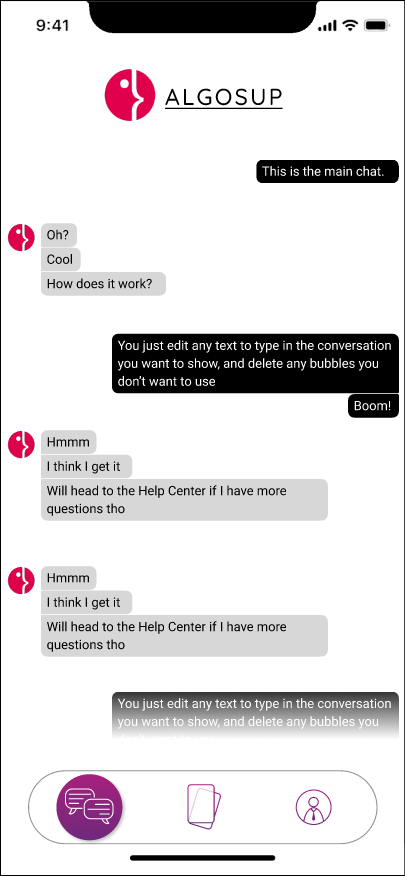
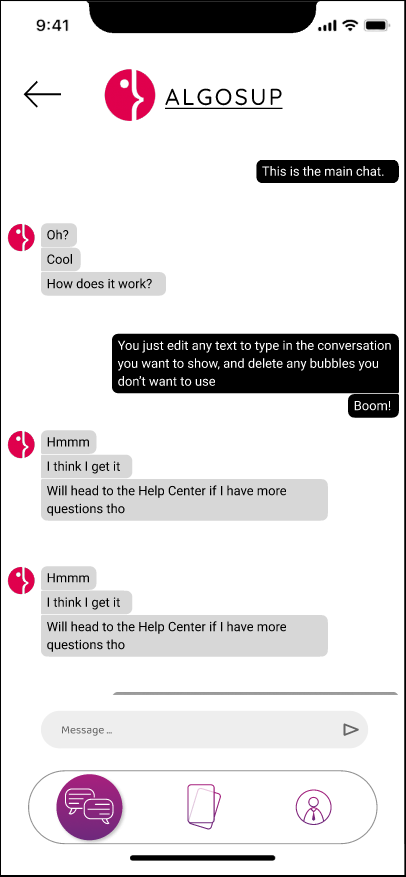
some screens are needed and the others sections have to be filed

diff --git a/documents/functional/functional_specifications.md b/documents/functional/functional_specifications.md
@@ -20,6 +20,8 @@
     - [2. Features](#2-features)
         - [Soft-skills](#soft-skills)
         - [Anonymized candidates](#anonymized-candidates)
+        - [Matching system](#matching-system)
+        - [Saving system](#saving-system)
     - [3. Graphic charter](#3-graphic-charter)
         - [Logo](#logo)
         - [Font](#font)
@@ -164,7 +166,7 @@ Description: The company needs to find candidate on who they can trust and that 
 
 ## 2. Features
 
-We were asked to focus on two main features: the soft-skills prioritization and anonymizing candidates. 
+We were asked to focus on two main features: the soft-skills prioritization and anonymizing candidates. Also two other features will be implemented, which one was requested and the other is decided by us to add more possibilities for the app: a matching system and a saving system.
 
 
 ### Soft-skills
@@ -215,6 +217,14 @@ They are not evenly distributed and some of them are in multiple categories but 
 ### Anonymized candidates
 
 As we were tasked to focus on soft-skills, it requires anonymizing the candidates that was also what we were requested to do. By anonymizing the candidates, only their soft-skills will be shown to the other users, to eliminate discrimination, bias selection by competences, to focus more on the human aspect of the recruitment. If the company needs to know more about a candidate, they will be able to chat via a chat system implemented in the app.
+
+### Matching system
+
+The goal of the matching system is to detect when a candidate and a company validated each other's profile. When a matching occurs, they will be able to talk to each other via a private chat implemented in the app.
+
+### Saving system
+
+The saving system that we will implement will be used to save profiles that can be useful later but on which we don't want them to be prioritized. As such, when a profile is saved, it does not mean that it is validated and so the matching system will not work. Saved profiles will be accessible and then the user will be able to finally decides if he reject or validate the profile.
 
 ## 3. Graphic charter
 
@@ -410,71 +420,170 @@ Then, after the verification validated, the user will be able to put every infor
 
 <img src="../images/functional/ui/logo_company.png" width="24%">
 
-
+The user will then be able to create a description for the company:
 
 <img src="../images/functional/ui/description_company.png" width="24%">
 
+As well as what type a job he offers:
+
 <img src="../images/functional/ui/information_company.png" width="24%">
+
+Then he will choose which soft-skills are required to be selected :
 
 <img src="../images/functional/ui/softskills_company1.png" width="24%">
 <img src="../images/functional/ui/softskills_company2.png" width="24%">
 <img src="../images/functional/ui/softskills_company3.png" width="24%">
 <img src="../images/functional/ui/softskills_company4.png" width="24%">
 
+After finishing everything, the user will directly arrive on the main page of the app described in the [Searching candidates](#searching-candidates) section later in the document.
+
 ### Job seeker interface
 ---
 
 #### Searching companies
 
+As a main feature of the app, the candidate will be able to look for a company that perfectly suits his needs.
+
+To do so, the candidate will have "cards" on which the company will be described on:
+
 <img src="../images/functional/ui/searching_candidate1.png" width="24%">
+
+If you click on it, the card will flip to show the complete description that the company had provided:
+
 <img src="../images/functional/ui/searching_candidate2.png" width="24%">
+
+To validate the company, the user will have to click on the green button with a check mark, or slide the card to the right. In the case where the user don't validate the company, he will have to click on the red button with a cross, or slide the card to the left.
+
+Also if the user reject or validate the company by mistake, the return button at the left of the red button will let the user to bring back the last card and do again the choice.
+
+If the user don't really know if he will reject or validate the company, the save button at the right of the green button will let the user to save the company so he will be able to do the choice later, without interfering with the match system (saved profiles will not create a match).
+
+When the user changes page, this page will be accessible by clicking on the middle button on the navigation bar at the bottom of the screen.
 
 #### Discussion with companies
 
+When a match occurs, the job seeker will be able to chat with the company. He will be free to ask or tell what they want, as long as they respect the rules of communication.
+
+To chat with a company, he will have to select to which company he wants to chat with from a list of every matches:
+
 <img src="../images/functional/ui/chat_candidate.png" width="24%">
+
+The last message will be directly visible as well as when it was send.
+
+When the user had chosen to which company he wants to chat with, he will arrive on a chat page that looks like a standard chat interface but using the main style of the app:
 
 <img src="../images/functional/ui/inchat_candidate.png" width="24%">
 
+If he wants to change the company he wants to chat with, he can click on the arrow on the top left of the screen.
+
+When the user changes page, this page will be accessible by clicking on the left button on the navigation bar at the bottom of the screen.
+
 #### Account page
 
-<img src="../images/functional/ui/account_candidate.png" width="24%">
+On the account pages, every information that the user had previously given will be shown:
+
+<img alt="TO DO" src="../images/functional/ui/.png" width="24%">
+
+Some clickable texts will be available:
+- Modify the information
+- See the saved companies
+- Disconnect
+- Delete the account
+
+More details about those clickable texts on the sections below.
+
+When the user changes page, this page will be accessible by clicking on the right button on the navigation bar at the bottom of the screen.
 
 #### Saved companies
 
+When clicking on the clickable text "Saved companies" on the account page, the user will be able to see every company's profiles that he saved. The companies cards have a reduced size to see more companies at the same time:
 
+<img alt="TO DO" src="../images/functional/ui/.png" width="24%">
+
+Upon clicking on a chosen company, the company's card will increase its size to show every details as if the user is choosing to reject or validate the company from the company selection page:
+
+Then he can select to either reject or validate the company, or if he doesn't want to make a choice for now, he can click again on the card and its size will go back as how it was before.
+
+To quit this page, an arrow at the top left is available. It will lead to the account page.
 
 <h4 id="candidate-others">Others</h4>
 
+> TO DO
 
+<img alt="TO DO" src="../images/functional/ui/.png" width="24%">
 
 ### Company interface
 ---
 
+The company side of the app looks pretty much the same as the candidate side apart some changes that are adapted for the companies
+
 #### Searching candidates
+
+The interface works the same way as the candidate side, but clicking on the card will not make the card flip to see a description:
 
 <img src="../images/functional/ui/searching_company.png" width="24%">
 
+To validate the candidate, the user will have to click on the green button with a check mark, or slide the card to the right. In the case where the user don't validate the candidate, he will have to click on the red button with a cross, or slide the card to the left.
+
+Also if the user reject or validate the candidate by mistake, the return button at the left of the red button will let the user to bring back the last card and do again the choice.
+
+If the user don't really know if he will reject or validate the candidate, the save button at the right of the green button will let the user to save the candidate so he will be able to do the choice later, without interfering with the match system (saved profiles will not create a match).
+
+When the user changes page, this page will be accessible by clicking on the middle button on the navigation bar at the bottom of the screen.
+
 #### Discussion with candidates
+
+The interface for the chat page in the same as for the candidate side of the app with for only difference the fact that they see the candidates with which a match occurred:
 
 <img src="../images/functional/ui/chat_company.png" width="24%">
 
+The last message will be directly visible as well as when it was send.
+
+When the user had chosen to which candidate he wants to chat with, he will arrive on a chat page that looks like a standard chat interface but using the main style of the app:
+
 <img src="../images/functional/ui/inchat_company.png" width="24%">
+
+If he wants to change the candidate he wants to chat with, he can click on the arrow on the top left of the screen.
+
+When the user changes page, this page will be accessible by clicking on the left button on the navigation bar at the bottom of the screen.
 
 #### Account page
 
+On the account pages, every information that the user had previously given will be shown:
 
+<img alt="TO DO" src="../images/functional/ui/.png" width="24%">
+
+Some clickable texts will be available:
+- Modify the information
+- See the saved candidates
+- Disconnect
+- Delete the account
+
+More details about those clickable texts on the sections below.
+
+When the user changes page, this page will be accessible by clicking on the right button on the navigation bar at the bottom of the screen.
 
 #### Saved candidates
 
+When clicking on the clickable text "Saved candidates" on the account page, the user will be able to see every candidate's profiles that he saved. The candidates cards have a reduced size to see more candidates at the same time:
 
+<img alt="TO DO" src="../images/functional/ui/.png" width="24%">
+
+Upon clicking on a chosen candidate, the candidate's card will increase its size to show every details as if the user is choosing to reject or validate the candidate from the candidate selection page:
+
+Then he can select to either reject or validate the candidate, or if he doesn't want to make a choice for now, he can click again on the card and its size will go back as how it was before.
+
+To quit this page, an arrow at the top left is available. It will lead to the account page.
 
 <h4 id="company-others">Others</h4>
 
+> TO DO
 
+<img alt="TO DO" src="../images/functional/ui/.png" width="24%">
 
 #### Computer version
 
-
+Fot the computer version, the interface will be the same as for the smartphone version. Everything will be centered on the screen.
 <br><br>
 
 
